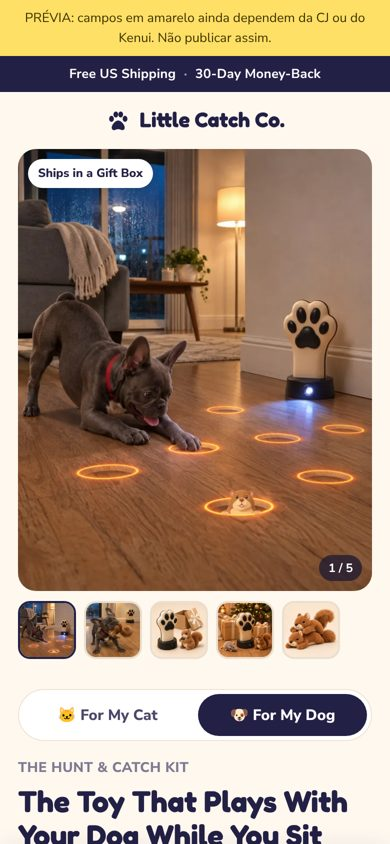
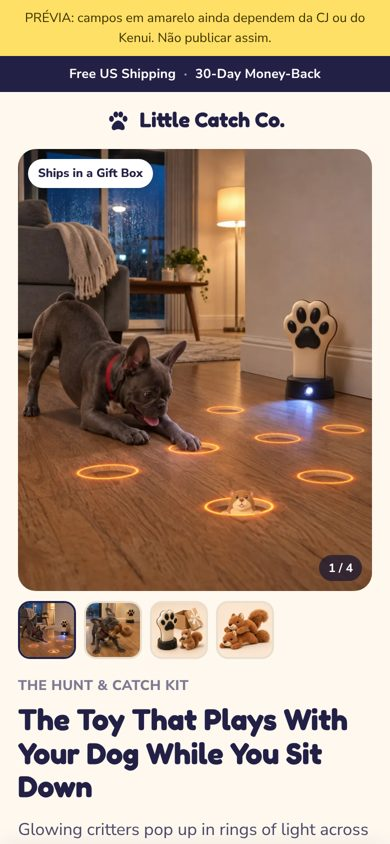
Preço novo da CJ: kit a US$49,99, 2 kits US$89,99, bump US$9,99, upsell US$39,99; prazo 7–15 dias; só frente de cachorro; preços/custos versionados em api/_precos.php
Claude-Session: https://claude.ai/code/session_01AVFQrXTzUbJPg3Yha9ofWy

Changed region(s): [[0.0308, 0.7085, 0.9538, 1.0]]

diff --git a/operacoes/drop-eua/produtos/projetor-pet/05-pagina/site/public_html/index.html b/operacoes/drop-eua/produtos/projetor-pet/05-pagina/site/public_html/index.html
@@ -91,12 +91,13 @@ window.COPY = {
 /* fotos por pet (ilustrações geradas com o produto travado; trocar por material real da CJ quando chegar) */
 window.GAL = {
   cat: [["hero-cat","Cat chasing glowing mice in rings of light on a living room floor at night"],["rest-cat","Woman resting on the sofa while her cat hunts the projected mice"],["catch-cat","Cat holding the plush catnip mouse after the hunt"],["kit-cat","The paw-shaped projector, plush catnip mouse and gift box"],["gift","Cat and dog kits in gift boxes under a Christmas tree"],["bump-cat","Three spare plush catnip mice"]],
-  dog: [["hero-dog","Dog chasing glowing critters in rings of light on the floor at night"],["catch-dog","Dog shaking the squeaky plush squirrel after the chase"],["kit-dog","The paw-shaped projector, squeaky plush squirrel and gift box"],["gift","Cat and dog kits in gift boxes under a Christmas tree"],["bump-dog","Two spare squeaky plush squirrels"]]
+  dog: [["hero-dog","Dog chasing glowing critters in rings of light on the floor at night"],["catch-dog","Dog shaking the squeaky plush squirrel after the chase"],["kit-dog","The paw-shaped projector, squeaky plush squirrel and gift box"],["bump-dog","Two spare squeaky plush squirrels"]]
 };
 /* resolve pet e ângulo antes de pintar */
 (function(){
   var q=new URLSearchParams(location.search), C=window.CONFIG;
-  var pet=q.get("pet")==="dog"?"dog":(q.get("pet")==="cat"?"cat":C.defaultPet);
+  var pets=C.pets||["cat","dog"], pet=q.get("pet")==="dog"?"dog":(q.get("pet")==="cat"?"cat":C.defaultPet);
+  if(pets.indexOf(pet)<0) pet=pets[0];
   var a=q.get("a"); if(!window.COPY[pet].angles[a]) a=C.defaultAngle[pet];
   window.STATE={pet:pet,angle:a,kit:"one",mix:[pet,pet],bump:false};
   document.documentElement.dataset.pet=pet;
@@ -142,7 +143,7 @@ window.buildGal=function(){
     <div id="media"></div>
     <script>buildGal()</script>
     <div class="prod">
-      <div class="pets" role="group" aria-label="Choose your pet">
+      <div class="pets" role="group" aria-label="Choose your pet" data-multi-pet>
         <button type="button" data-pet="cat">🐱 For My Cat</button>
         <button type="button" data-pet="dog">🐶 For My Dog</button>
       </div>
@@ -269,10 +270,10 @@ window.buildGal=function(){
         <input type="radio" name="kit" value="two">
         <span class="tag" id="hlTag">Best for Gifts</span>
         <span class="radio"></span>
-        <img class="kimg" src="assets/img/gift-sm.webp" alt="">
-        <div class="kbody"><div class="name">2 Kits</div><div class="inc">One to keep, one to give. Mix cat and dog.</div><div class="save" data-f="saveTwo"></div></div>
+        <img class="kimg" data-img="kit2" src="assets/img/gift-sm.webp" alt="">
+        <div class="kbody"><div class="name">2 Kits</div><div class="inc">One to keep, one to give.<span data-multi-pet> Mix cat and dog.</span></div><div class="save" data-f="saveTwo"></div></div>
         <div class="kp"><div class="p" data-f="priceTwo"></div><div class="each" data-f="eachTwo"></div></div>
-        <div class="mix">
+        <div class="mix" data-multi-pet>
           <label>Kit 1<select data-mix="0"><option value="cat">Cat</option><option value="dog">Dog</option></select></label>
           <label>Kit 2<select data-mix="1"><option value="cat">Cat</option><option value="dog">Dog</option></select></label>
         </div>
@@ -315,10 +316,10 @@ window.buildGal=function(){
 <!-- 10. PRESENTE -->
 <section class="sec alt" data-bloco="presente">
   <div class="wrap">
-    <div class="pic sq"><img src="assets/img/gift.webp" alt="Cat and dog kits in gift boxes under a Christmas tree" loading="lazy" width="800" height="800"></div>
+    <div class="pic sq"><img data-img="giftbig" src="assets/img/gift.webp" alt="The kit in its gift box" loading="lazy" width="800" height="800"></div>
     <div class="eyebrow">Gifting</div>
     <h2>A Gift for the Pet <span class="hl">and</span> the Person</h2>
-    <p>Every kit ships in its own gift box. Use their address at checkout and it goes straight to them. The 2-kit pack lets you mix one cat kit and one dog kit.</p>
+    <p>Every kit ships in its own gift box. Use their address at checkout and it goes straight to them.<span data-multi-pet> The 2-kit pack lets you mix one cat kit and one dog kit.</span></p>
     <p data-f-show="xmasCutoff">Ordering for Christmas? Order by <b data-f="xmasCutoff"></b>.</p>
   </div>
 </section>
@@ -357,9 +358,10 @@ window.buildGal=function(){
     <div class="eyebrow">Questions</div>
     <h2>Fair Questions</h2>
     <details><summary>Is it a laser?</summary><p data-f="laserAns"></p></details>
-    <details><summary>Will my cat get frustrated chasing light?</summary><p>That's the reason the plush mouse is in the kit. Lights for the chase, a toy for the catch. Keep sessions to 10 or 15 minutes and end with the plush.</p></details>
+    <details data-pet-only="cat"><summary>Will my cat get frustrated chasing light?</summary><p>That's the reason the plush mouse is in the kit. Lights for the chase, a toy for the catch. Keep sessions to 10 or 15 minutes and end with the plush.</p></details>
     <details><summary>Does it work during the day?</summary><p>Not well. It's made for evenings or a room with the curtains closed. In bright daylight the projection is faint.</p></details>
-    <details><summary>Does it work for dogs?</summary><p>Yes, there's a dog kit with a squeaky plush squirrel instead of catnip. It's best for small and medium dogs; a large, excited dog may knock it over.</p></details>
+    <details data-pet-only="cat"><summary>Does it work for dogs?</summary><p>Yes, there's a dog kit with a squeaky plush squirrel instead of catnip. It's best for small and medium dogs; a large, excited dog may knock it over.</p></details>
+    <details data-pet-only="dog"><summary>What size dog is it for?</summary><p>Small and medium dogs do best. A large, excited dog may knock it over or try to chew it, so stay in the room and keep sessions short.</p></details>
     <details><summary>I saw a projector like this for less on Amazon.</summary><p>You probably did. Those usually ship the projector on its own. Ours is a kit: projector, a plush for the catch, and a gift box, with a delivery date you see before you pay and a 30-day refund from people who answer email.</p></details>
     <details><summary>How is it powered?</summary><p><span data-f="power"></span>.</p></details>
     <details><summary>Is this a real store? I've seen these ads called scams.</summary><p>Fair worry. You pay through Stripe, you get an email receipt right away with every charge listed, and you get a tracking number when your order ships. A person answers at <span data-f="email"></span>. If anything goes wrong, email us before you call your bank. A refund is faster that way.</p></details>

diff --git a/operacoes/drop-eua/produtos/projetor-pet/05-pagina/site/public_html/config.js b/operacoes/drop-eua/produtos/projetor-pet/05-pagina/site/public_html/config.js
@@ -14,16 +14,16 @@ window.CONFIG = {
 
   currency: "USD",
   kits: {
-    one: { price: 34.99, label: "1 kit" },
-    two: { price: 59.99, label: "2 kits", save: 10.00 }
+    one: { price: 49.99, label: "1 kit" },   // decisão do Kenui 24/11 (kit projetor + pelúcia a US$49,99)
+    two: { price: 89.99, label: "2 kits", save: 9.99 }   // save = 2 × 49,99 − 89,99
   },
-  bump:     { price: 7.99 },
-  upsell:   { price: 24.99, regular: 34.99 },
+  bump:     { price: 9.99 },
+  upsell:   { price: 39.99, regular: 49.99 },  // regular = preço real de 1 kit
   downsell: { price: 7.99, on: true, kind: "plush" },  // control: pelúcias extras só para quem não pegou o bump
   bonus: { on: true, name: "First Hunt Guide" },        // PDF grátis por e-mail (objeções 2 e 4 da persona)
 
-  delivery: "",        // ex.: "7–12 business days"  [PENDENTE: prazo real da CJ]
-  shipsFrom: "",       // ex.: "our US warehouse" ou "our partner warehouse overseas"  [PENDENTE: CJ]
+  delivery: "7–15 days",  // CJ 24/11: CJPacket Sensitive, ~90% entregue em 4–12 dias + 1–3 de separação
+  shipsFrom: "our partner warehouse in China",  // CJ 24/11: fornecedor sai da China
   xmasCutoff: "",      // ex.: "Dec 10" só se o prazo garantir  [PENDENTE]
   specs: {
     size: "",          // ex.: "about 4.5 in tall, roughly a coffee mug"  [PENDENTE: CJ]
@@ -35,7 +35,8 @@ window.CONFIG = {
   stripePk: "pk_test_51UefZS9fGfTx7kShypVC0uVAM4MfKRZo7eVHwDuMLJssfF90tIY5OdUJnFZdz3PYSQUH2zFhYMmE15bMZhpK55zI00bIwNKQXd", // TESTE conta Brasil (Kenui, 24/11). Chave pública: pode ficar no Git.
   metaPixelId: "545543757913721", // pixel do Meta (Kenui, 24/11). ID público.
   clarityId: "",       // vazio = Clarity desligado
-  defaultPet: "cat",
+  pets: ["dog"],       // só a versão cachorro (esquilo) tem fornecedor (CJ 24/11). Gato volta quando houver.
+  defaultPet: "dog",
   defaultAngle: { cat: "pega", dog: "sozinho" },
 
   /* ---------- TESTE A/B (um por vez). Plano e ordem: ../../testes/fila.md ----------
@@ -47,9 +48,9 @@ window.CONFIG = {
     list: {
       "T1-angulo":     { split: 50, note: "ângulo vem do anúncio (?a=); este teste só registra", variants: { A: {}, B: {} } },
       "T2-kit2-mix":   { split: 50, variants: { A: {}, B: { "kits.two.highlight": true } } },
-      "T3-preco-front":{ split: 50, variants: { A: {}, B: { "kits.one.price": 39.99, "kits.two.price": 69.99, "kits.two.save": 9.99 } } },
-      "T4-bump-preco": { split: 50, variants: { A: {}, B: { "bump.price": 5.99 } } },
-      "T5-upsell-preco":{ split: 50, variants: { A: {}, B: { "upsell.price": 19.99 } } },
+      "T3-preco-front":{ split: 50, variants: { A: {}, B: { "kits.one.price": 59.99, "kits.two.price": 109.99, "kits.two.save": 9.99, "upsell.regular": 59.99 } } },
+      "T4-bump-preco": { split: 50, variants: { A: {}, B: { "bump.price": 7.99 } } },
+      "T5-upsell-preco":{ split: 50, variants: { A: {}, B: { "upsell.price": 34.99 } } },
       "T6-downsell-digital":{ split: 50, variants: { A: {}, B: { "downsell.kind": "guide", "downsell.price": 9.00 } } }
     }
   }

diff --git a/operacoes/drop-eua/produtos/projetor-pet/05-pagina/site/public_html/upsell.html b/operacoes/drop-eua/produtos/projetor-pet/05-pagina/site/public_html/upsell.html
@@ -10,7 +10,7 @@
   <div class="progress" aria-label="Step 2 of 3"><i class="on"></i><i class="on"></i><i></i></div>
   <div class="okline"><svg viewBox="0 0 24 24" fill="none" stroke="currentColor" stroke-width="2.5" stroke-linecap="round"><circle cx="12" cy="12" r="10"/><path d="m7 12.5 3.2 3L17 9"/></svg>Payment received. Don't close this page yet.</div>
   <h1>Add a Second Kit for Someone Else's Pet?</h1>
-  <p>Good for the friend who sends you cat videos every day, or the dog at your parents' house. It goes in the same box as your order.</p>
+  <p>Good for the friend who sends you dog videos every day, or the dog at your parents' house. It goes in the same box as your order.</p>
 
   <div class="offer">
     <img id="upImg" src="assets/img/kit-cat.webp" alt="The paw-shaped projector with its plush toy and gift box" width="800" height="800">
@@ -24,11 +24,11 @@
         <li>Charged to the card you just used, nothing to type</li>
         <li>Covered by the same 30-day refund</li>
       </ul>
-      <p style="font-weight:800;margin:16px 0 0">Which pet is it for?</p>
+      <div id="petPick"><p style="font-weight:800;margin:16px 0 0">Which pet is it for?</p>
       <div class="choice" role="radiogroup">
         <label><input type="radio" name="gp" value="cat" checked><span>🐱 Cat</span></label>
         <label><input type="radio" name="gp" value="dog"><span>🐶 Dog</span></label>
-      </div>
+      </div></div>
       <input type="hidden" id="gpet" value="cat">
       <div class="err" id="err" role="alert"></div>
       <button class="btn" id="yes" type="button">Yes, Add a Second Kit · <span data-f="upsell"></span></button>
@@ -44,7 +44,8 @@
   document.getElementById("upSave").textContent="You Save $"+(C.upsell.regular-C.upsell.price).toFixed(2);
   function set(p){g.value=p;img.src="assets/img/kit-"+p+".webp";[].forEach.call(document.querySelectorAll('[name="gp"]'),function(r){r.checked=r.value===p})}
   var pet="cat"; try{pet=JSON.parse(sessionStorage.getItem("demo_order")||"{}").pet||sessionStorage.getItem("pet")||"cat"}catch(e){}
-  set(pet==="dog"?"dog":"cat");
+  var pets=C.pets||["cat","dog"]; if(pets.indexOf(pet)<0) pet=pets[0];
+  set(pet==="dog"?"dog":"cat"); if(pets.length<2) document.getElementById("petPick").hidden=true;
   [].forEach.call(document.querySelectorAll('[name="gp"]'),function(r){r.onchange=function(){set(r.value)}});
 })();
 </script>

diff --git a/operacoes/drop-eua/produtos/projetor-pet/05-pagina/site/public_html/assets/app.js b/operacoes/drop-eua/produtos/projetor-pet/05-pagina/site/public_html/assets/app.js
@@ -35,6 +35,8 @@
     $$("[data-f-show-bonus]").forEach(function(el){el.hidden=!(C.bonus&&C.bonus.on)});
     $("#hlTag").textContent=C.kits.two.highlight?"Mix Cat + Dog":"Best for Gifts";
     $$("[data-pet-only]").forEach(function(el){el.hidden=el.dataset.petOnly!==S.pet});
+    var multi=(C.pets||["cat","dog"]).length>1;
+    $$("[data-multi-pet]").forEach(function(el){el.hidden=!multi});
     $$(".pets button").forEach(function(b){b.setAttribute("aria-pressed",b.dataset.pet===S.pet)});
     $("#h1").textContent=A.h1; $("#sub").textContent=A.sub;
     $("#prob").innerHTML=A.prob.map(function(t){return "<p>"+t+"</p>"}).join("");
@@ -52,6 +54,9 @@
     var pet=S.pet;
     $$('[data-img="kit"]').forEach(function(i){i.src="assets/img/kit-"+pet+"-sm.webp"});
     $$('[data-img="bump"]').forEach(function(i){i.src="assets/img/bump-"+pet+"-sm.webp"});
+    var multi=(C.pets||["cat","dog"]).length>1;
+    $$('[data-img="kit2"]').forEach(function(i){i.src=multi?"assets/img/gift-sm.webp":"assets/img/kit-"+pet+"-sm.webp"});
+    $$('[data-img="giftbig"]').forEach(function(i){i.src=multi?"assets/img/gift.webp":"assets/img/kit-"+pet+".webp"});
     $("#catchImg").src="assets/img/catch-"+pet+".webp";
     $("#finalImg").src="assets/img/hero-"+pet+".webp";
     $("#probImg").src=pet==="dog"?"assets/img/hero-dog.webp":"assets/img/rest-cat.webp";
@@ -72,7 +77,8 @@
   function summary(){
     var two=S.kit==="two";
     var cap=function(x){return x==="dog"?"Dog":"Cat"};
-    $("#sumKit").textContent=two?("Hunt & Catch Kit × 2 ("+S.mix.map(cap).join(" + ")+")"):("Hunt & Catch Kit ("+cap(S.pet)+")");
+    var multi=(C.pets||["cat","dog"]).length>1;
+    $("#sumKit").textContent=two?("Hunt & Catch Kit × 2"+(multi?" ("+S.mix.map(cap).join(" + ")+")":"")):("Hunt & Catch Kit"+(multi?" ("+cap(S.pet)+")":""));
     $("#sumKitP").textContent=money(two?C.kits.two.price:C.kits.one.price);
     $("#sumBumpRow").hidden=!S.bump;
     $("#sumTotal").textContent=money(total()); $("#payAmt").textContent=money(total());

diff --git a/operacoes/drop-eua/produtos/projetor-pet/05-pagina/site/public_html/api/_precos.php b/operacoes/drop-eua/produtos/projetor-pet/05-pagina/site/public_html/api/_precos.php
@@ -1,0 +1,22 @@
+<?php
+// PREÇOS, CUSTOS E PRAZO versionados no Git (não são segredo). Sobrescrevem os de ../config.php do servidor.
+// Precisam bater com public_html/config.js. Fonte: operacoes/drop-eua/garimpo/2026-11-24/trava-projetor-pet.md
+// Decisão do Kenui (24/11, cartão no garimpo): "Sim, kit a US$49,99" (projetor + pelúcia). Só a frente de cachorro tem fornecedor.
+return [
+  // centavos
+  'precos' => ['one' => 4999, 'two' => 8999, 'bump' => 999, 'upsell' => 3999, 'downsell' => 799],
+  'downsell_kind' => 'plush',
+  'testes' => [
+    'active' => '',
+    'list' => [
+      'T3-preco-front'      => ['split' => 50, 'B' => ['one' => 5999, 'two' => 10999]],
+      'T4-bump-preco'       => ['split' => 50, 'B' => ['bump' => 799]],
+      'T5-upsell-preco'     => ['split' => 50, 'B' => ['upsell' => 3499]],
+      'T6-downsell-digital' => ['split' => 50, 'B' => ['downsell' => 900, 'downsell_kind' => 'guide']],
+    ],
+  ],
+  // custo entregue (CJ, 24/11): projetor US$6,74 + pelúcia ~US$1,50 (cotação pendente) + frete CJPacket Sensitive do kit US$10,53 = US$18,77.
+  // Pelúcias extras (bump/downsell): 2 × US$1,50 + ~US$1,50 de frete a mais = US$4,50 (estimativa até a cotação da pelúcia).
+  'custos' => ['kit' => 1877, 'bump' => 450, 'downsell_plush' => 450, 'downsell_guide' => 0],
+  'prazo' => '7–15 days',
+];

diff --git a/operacoes/drop-eua/produtos/projetor-pet/05-pagina/site/ferramentas/status.php b/operacoes/drop-eua/produtos/projetor-pet/05-pagina/site/ferramentas/status.php
@@ -19,6 +19,7 @@ if ($o['config']) {
     $_SERVER['REQUEST_METHOD'] = 'CLI';
     ob_start(); require $pub . '/api/_lib.php'; ob_end_clean();
     $d = db();
+    $o['precos'] = precos(); $o['custos'] = cfg()['custos'] ?? null;
     $o['pedidos'] = $d->query("SELECT criado,pago_em,funil_fim,status,pet,kit,mix,bump,variante,valor_front,upsell,valor_upsell,downsell,valor_downsell,reembolsado,contestado,email_enviado,substr(pi_front,1,12) pi FROM pedidos ORDER BY criado DESC LIMIT 15")->fetchAll();
     $o['eventos'] = $d->query("SELECT evento, COUNT(*) n FROM eventos GROUP BY evento ORDER BY n DESC")->fetchAll();
     $o['webhooks'] = $d->query("SELECT id, criado FROM webhooks ORDER BY criado DESC LIMIT 10")->fetchAll();

diff --git a/operacoes/drop-eua/produtos/projetor-pet/05-pagina/site/public_html/api/_lib.php b/operacoes/drop-eua/produtos/projetor-pet/05-pagina/site/public_html/api/_lib.php
@@ -10,6 +10,7 @@ function cfg(): array {
     $p = getenv('PP_CONFIG') ?: dirname(__DIR__, 2) . '/config.php';
     if (!is_file($p)) { out(['error' => 'Checkout is not configured yet.'], 503); }
     $c = require $p;
+    if (is_file(__DIR__ . '/_precos.php')) $c = array_replace($c, require __DIR__ . '/_precos.php'); // preços/custos/prazo do Git
   }
   return $c;
 }
